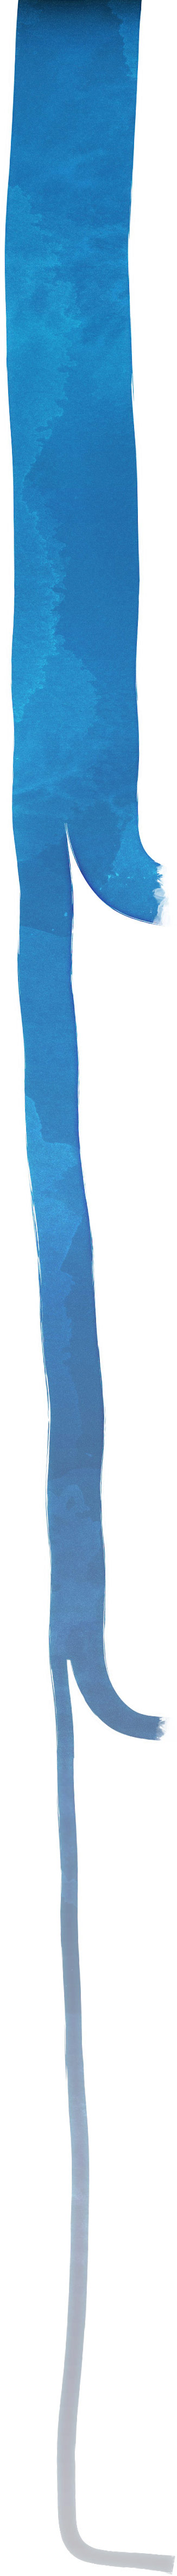
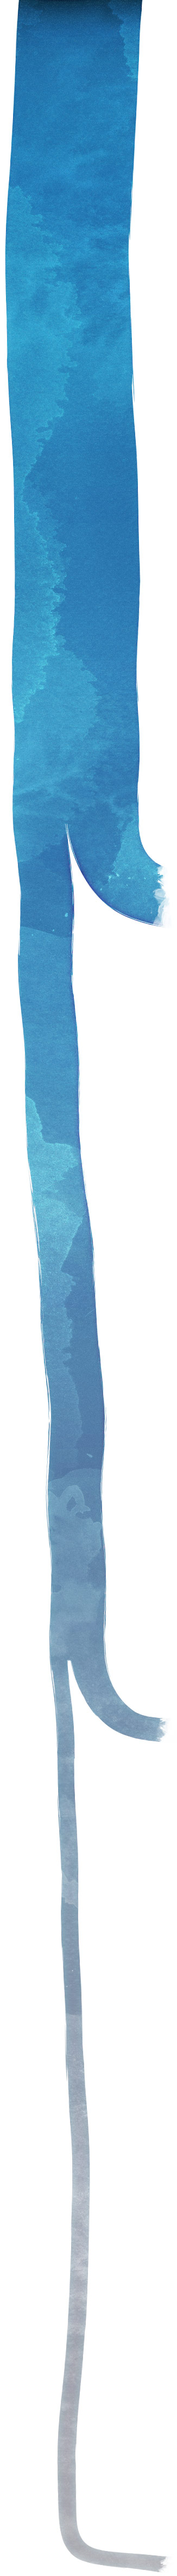
Tweaks to river

diff --git a/app/scripts/river-pinner.js b/app/scripts/river-pinner.js
@@ -17,9 +17,9 @@ define(['jquery', 'lodash'], function($, _) {
 
   var riverPinPoints = {
     "introduction": 0,
-    "crops": 1370,
-    "livestock": 2930,
-    "rest": 4516
+    "crops": 1290,
+    "livestock": 2880,
+    "rest": 4470
   };
 
   function cacheOffsets() {
@@ -55,7 +55,7 @@ define(['jquery', 'lodash'], function($, _) {
   }
 
   function percentageCalc(offset, scrollTop) {
-    var halfwayOffset = offset.top + (offset.bottom - offset.top) * 0.9;
+    var halfwayOffset = offset.top + (offset.bottom - offset.top) * 0.80;
 
     if (scrollTop <= halfwayOffset) {
       return 0;
